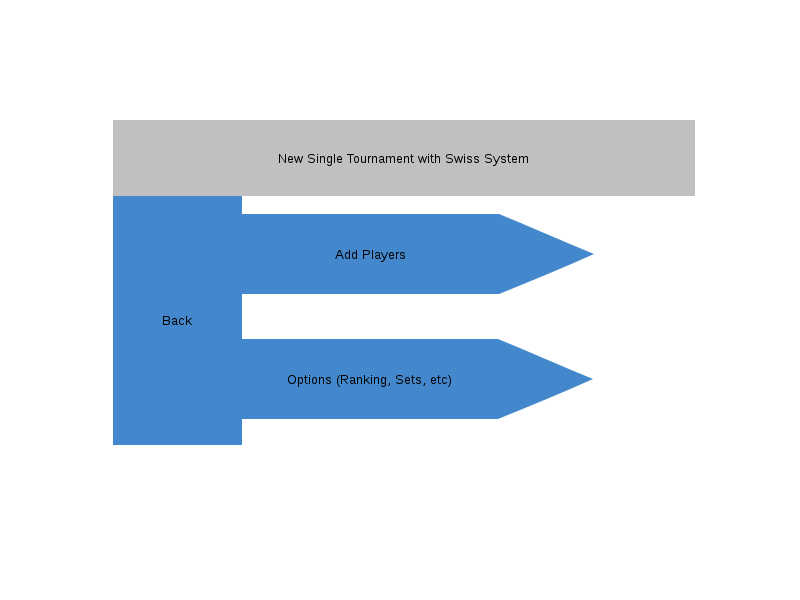
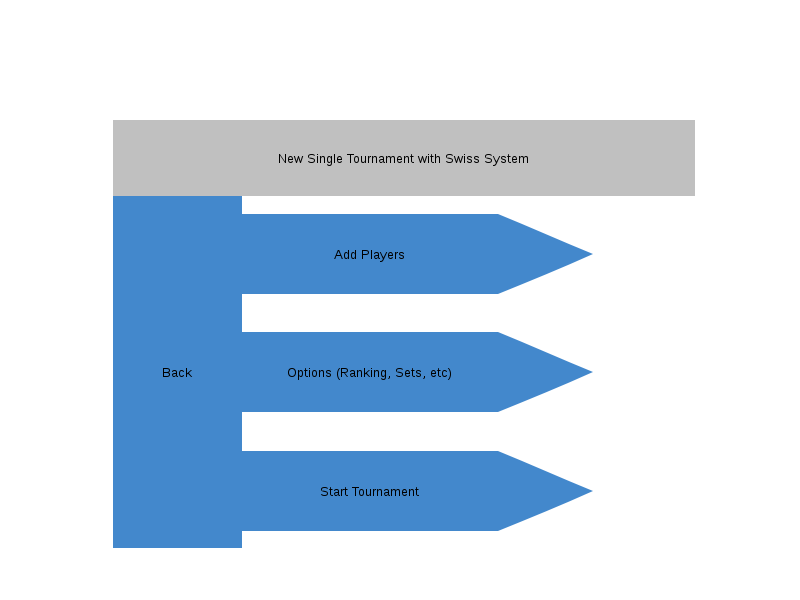
Showcase for the Single Swiss Tournament nearly complete, Options are left

diff --git a/showcase/index.html b/showcase/index.html
@@ -1,1 +1,1 @@
-<html xmlns="http://www.w3.org/1999/xhtml"><head><meta http-equiv="Content-Type" content="text/html; charset=UTF-8" /><title>Showcase.ep</title><link rel="stylesheet" href="Resources/SampleStyle.css" /></head><body><h1 id="documentTitle">Showcase.ep</h1><p id="documentMetadata">Exported at: Thu Oct 02 2014 11:27:34 GMT+0200 (CEST)</p><div class="Page" id="main_menu_page"><h2>Main Menu</h2><div class="ImageContainer"><img height="600" width="800" src="pages/main_menu.png" usemap="#map_main_menu" /></div><map name="map_main_menu"><area shape="rect" coords="242,239,572,319" href="#newtorunament_page" title="Go to page 'New_torunament'" /></map></div><div class="Page" id="newtorunament_page"><h2>New_torunament</h2><div class="ImageContainer"><img height="600" width="800" src="pages/newtorunament.png" usemap="#map_newtorunament" /></div><map name="map_newtorunament"><area shape="rect" coords="242,239,572,319" href="#newtorunament_page" title="Go to page 'New_torunament'" /></map></div><div class="Page" id="new_single_tournament_page"><h2>New Single Tournament</h2><div class="ImageContainer"><img height="600" width="800" src="pages/new_single_tournament.png" usemap="#map_new_single_tournament" /></div><map name="map_new_single_tournament"><area shape="rect" coords="242,214,594,294" href="#new_single_tournament_swisssystem_page" title="Go to page 'New Single Tournament SwissSystem'" /><area shape="rect" coords="112,195,243,446" href="#newtorunament_page" title="Go to page 'New_torunament'" /></map></div><div class="Page" id="new_single_tournament_swisssystem_page"><h2>New Single Tournament SwissSystem</h2><div class="ImageContainer"><img height="600" width="800" src="pages/new_single_tournament_swisssystem.png" usemap="#map_new_single_tournament_swisssystem" /></div><map name="map_new_single_tournament_swisssystem"><area shape="rect" coords="242,214,594,294" href="#addplayers_page" title="Go to page 'Add_Players'" /><area shape="rect" coords="112,195,243,446" href="#new_single_tournament_page" title="Go to page 'New Single Tournament'" /></map></div><div class="Page" id="addplayers_page"><h2>Add_Players</h2><div class="ImageContainer"><img height="600" width="800" src="pages/addplayers.png" usemap="#map_addplayers" /></div><map name="map_addplayers"><area shape="rect" coords="505,378,691,446" href="#addplayerssuccess_page" title="Go to page 'Add_Players_success'" /><area shape="rect" coords="209,378,394,445" href="#add_new_player_page" title="Go to page 'Add New Player'" /><area shape="rect" coords="112,195,210,445" href="#new_single_tournament_page" title="Go to page 'New Single Tournament'" /></map></div><div class="Page" id="add_new_player_page"><h2>Add New Player</h2><div class="ImageContainer"><img height="600" width="800" src="pages/add_new_player.png" usemap="#map_add_new_player" /></div><map name="map_add_new_player"><area shape="rect" coords="208,376,683,444" href="#addplayerssuccess_page" title="Go to page 'Add_Players_success'" /><area shape="rect" coords="111,194,209,444" href="#addplayers_page" title="Go to page 'Add_Players'" /></map></div><div class="Page" id="addplayerssuccess_page"><h2>Add_Players_success</h2><div class="ImageContainer"><img height="600" width="800" src="pages/addplayerssuccess.png" usemap="#map_addplayerssuccess" /></div><map name="map_addplayerssuccess"><area shape="rect" coords="111,194,693,254" href="#addplayers2_page" title="Go to page 'Add_Players_2'" /></map></div><div class="Page" id="addplayers2_page"><h2>Add_Players_2</h2><div class="ImageContainer"><img height="600" width="800" src="pages/addplayers2.png" usemap="#map_addplayers2" /></div><map name="map_addplayers2"><area shape="rect" coords="505,378,691,446" href="#addplayerssuccess_page" title="Go to page 'Add_Players_success'" /><area shape="rect" coords="209,378,394,445" href="#add_new_player_page" title="Go to page 'Add New Player'" /><area shape="rect" coords="112,195,210,445" href="#new_single_tournament_page" title="Go to page 'New Single Tournament'" /></map></div></body></html>
+<html xmlns="http://www.w3.org/1999/xhtml"><head><meta http-equiv="Content-Type" content="text/html; charset=UTF-8" /><title>Showcase.ep</title><link rel="stylesheet" href="Resources/SampleStyle.css" /></head><body><h1 id="documentTitle">Showcase.ep</h1><p id="documentMetadata">Exported at: Thu Oct 02 2014 12:07:10 GMT+0200 (CEST)</p><div class="Page" id="main_menu_page"><h2>Main Menu</h2><div class="ImageContainer"><img height="600" width="800" src="pages/main_menu.png" usemap="#map_main_menu" /></div><map name="map_main_menu"><area shape="rect" coords="242,239,572,319" href="#newtournament_page" title="Go to page 'New_Tournament'" /></map></div><div class="Page" id="newtournament_page"><h2>New_Tournament</h2><div class="ImageContainer"><img height="600" width="800" src="pages/newtournament.png" usemap="#map_newtournament" /></div><map name="map_newtournament"><area shape="rect" coords="242,214,594,294" href="#new_single_tournament_page" title="Go to page 'New Single Tournament'" /><area shape="rect" coords="112,195,243,446" href="#main_menu_page" title="Go to page 'Main Menu'" /></map></div><div class="Page" id="new_single_tournament_page"><h2>New Single Tournament</h2><div class="ImageContainer"><img height="600" width="800" src="pages/new_single_tournament.png" usemap="#map_new_single_tournament" /></div><map name="map_new_single_tournament"><area shape="rect" coords="242,214,594,294" href="#new_single_tournament_swisssystem_page" title="Go to page 'New Single Tournament SwissSystem'" /><area shape="rect" coords="112,195,243,446" href="#newtournament_page" title="Go to page 'New_Tournament'" /></map></div><div class="Page" id="new_single_tournament_swisssystem_page"><h2>New Single Tournament SwissSystem</h2><div class="ImageContainer"><img height="600" width="800" src="pages/new_single_tournament_swisssystem.png" usemap="#map_new_single_tournament_swisssystem" /></div><map name="map_new_single_tournament_swisssystem"><area shape="rect" coords="241,451,593,531" href="#startsingletournamentswisssystem_page" title="Go to page 'Start_Single_Tournament_SwissSystem'" /><area shape="rect" coords="241,214,593,294" href="#addplayers_page" title="Go to page 'Add_Players'" /><area shape="rect" coords="112,195,243,549" href="#new_single_tournament_page" title="Go to page 'New Single Tournament'" /></map></div><div class="Page" id="addplayers_page"><h2>Add_Players</h2><div class="ImageContainer"><img height="600" width="800" src="pages/addplayers.png" usemap="#map_addplayers" /></div><map name="map_addplayers"><area shape="rect" coords="505,378,691,446" href="#addplayerssuccess_page" title="Go to page 'Add_Players_success'" /><area shape="rect" coords="209,378,394,445" href="#add_new_player_page" title="Go to page 'Add New Player'" /><area shape="rect" coords="112,195,210,445" href="#new_single_tournament_swisssystem_page" title="Go to page 'New Single Tournament SwissSystem'" /></map></div><div class="Page" id="add_new_player_page"><h2>Add New Player</h2><div class="ImageContainer"><img height="600" width="800" src="pages/add_new_player.png" usemap="#map_add_new_player" /></div><map name="map_add_new_player"><area shape="rect" coords="208,376,683,444" href="#addplayerssuccess_page" title="Go to page 'Add_Players_success'" /><area shape="rect" coords="111,194,209,444" href="#addplayers_page" title="Go to page 'Add_Players'" /></map></div><div class="Page" id="addplayerssuccess_page"><h2>Add_Players_success</h2><div class="ImageContainer"><img height="600" width="800" src="pages/addplayerssuccess.png" usemap="#map_addplayerssuccess" /></div><map name="map_addplayerssuccess"><area shape="rect" coords="111,194,693,254" href="#addplayers2_page" title="Go to page 'Add_Players_2'" /></map></div><div class="Page" id="addplayers2_page"><h2>Add_Players_2</h2><div class="ImageContainer"><img height="600" width="800" src="pages/addplayers2.png" usemap="#map_addplayers2" /></div><map name="map_addplayers2"><area shape="rect" coords="505,378,691,446" href="#addplayerssuccess_page" title="Go to page 'Add_Players_success'" /><area shape="rect" coords="209,378,394,445" href="#add_new_player_page" title="Go to page 'Add New Player'" /><area shape="rect" coords="112,195,210,445" href="#new_single_tournament_swisssystem_page" title="Go to page 'New Single Tournament SwissSystem'" /></map></div><div class="Page" id="startsingletournamentswisssystem_page"><h2>Start_Single_Tournament_SwissSystem</h2><div class="ImageContainer"><img height="600" width="800" src="pages/startsingletournamentswisssystem.png" usemap="#map_startsingletournamentswisssystem" /></div><map name="map_startsingletournamentswisssystem"><area shape="rect" coords="114,195,299,262" href="#new_round_single_tournament_swisssystem_page" title="Go to page 'New Round Single Tournament Swisssystem'" /></map></div><div class="Page" id="new_round_single_tournament_swisssystem_page"><h2>New Round Single Tournament Swisssystem</h2><div class="ImageContainer"><img height="600" width="800" src="pages/new_round_single_tournament_swisssystem.png" usemap="#map_new_round_single_tournament_swisssystem" /></div><map name="map_new_round_single_tournament_swisssystem"><area shape="rect" coords="312,194,498,262" href="#actualstandings_page" title="Go to page 'Actual_Standings'" /><area shape="rect" coords="510,194,696,262" href="#endtournamentactualstandings_page" title="Go to page 'End_Tournament_Actual_Standings'" /></map></div><div class="Page" id="actualstandings_page"><h2>Actual_Standings</h2><div class="ImageContainer"><img height="600" width="800" src="pages/actualstandings.png" usemap="#map_actualstandings" /></div><map name="map_actualstandings"><area shape="rect" coords="111,386,314,456" href="#export_standings_page" title="Go to page 'Export standings'" /><area shape="rect" coords="490,386,693,456" href="#new_round_single_tournament_swisssystem_page" title="Go to page 'New Round Single Tournament Swisssystem'" /></map></div><div class="Page" id="export_standings_page"><h2>Export standings</h2><div class="ImageContainer"><img height="600" width="800" src="pages/export_standings.png" usemap="#map_export_standings" /></div><map name="map_export_standings"><area shape="rect" coords="112,194,243,548" href="#actualstandings_page" title="Go to page 'Actual_Standings'" /></map></div><div class="Page" id="endtournamentactualstandings_page"><h2>End_Tournament_Actual_Standings</h2><div class="ImageContainer"><img height="600" width="800" src="pages/endtournamentactualstandings.png" usemap="#map_endtournamentactualstandings" /></div><map name="map_endtournamentactualstandings"><area shape="rect" coords="336,386,486,456" href="#new_round_single_tournament_swisssystem_page" title="Go to page 'New Round Single Tournament Swisssystem'" /><area shape="rect" coords="111,386,314,456" href="#export_standings_after_end_page" title="Go to page 'Export standings after End'" /><area shape="rect" coords="541,386,697,456" href="#main_menu_page" title="Go to page 'Main Menu'" /></map></div><div class="Page" id="export_standings_after_end_page"><h2>Export standings after End</h2><div class="ImageContainer"><img height="600" width="800" src="pages/export_standings_after_end.png" usemap="#map_export_standings_after_end" /></div><map name="map_export_standings_after_end"><area shape="rect" coords="112,194,243,548" href="#endtournamentactualstandings_page" title="Go to page 'End_Tournament_Actual_Standings'" /></map></div></body></html>
